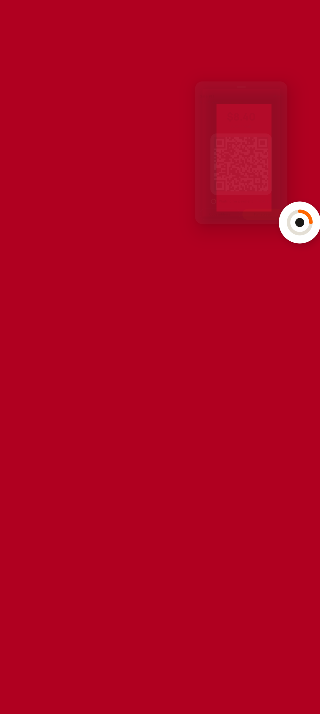
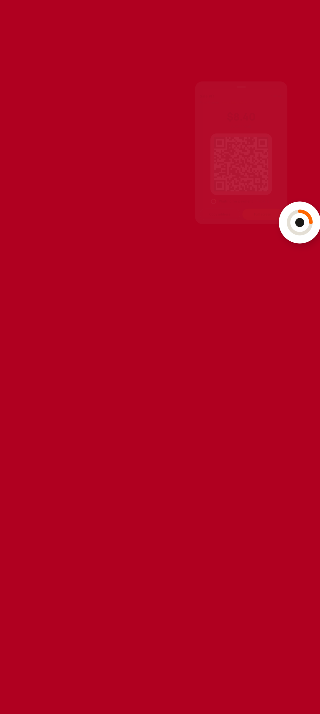
Let the panel's shadow collapse with its card, so a lower leaves no grey box over Square
The grow's per-draw fade never reached the card's elevation shadow, so
the card faded out of a shadow that stayed whole. The card's own layer
now casts its shadow from an elevation and a shadow colour that follow
Panel.shown(raise), the fade's own rule, on the phone's card, the
tablet's card and its order card; the free bubble's circle does the same
with its window's presence. OverlayFramesTest lowers the panel over white
and fails when the band under the card is darker than the card is opaque;
frames/phone-lower-light-q*.png are its frames. Decision 134.

Changed region(s): [[0.625, 0.1232, 0.9062, 0.3389]]

diff --git a/android/app/src/main/kotlin/app/monokular/overlay/Faces.kt b/android/app/src/main/kotlin/app/monokular/overlay/Faces.kt
@@ -63,11 +63,11 @@ import androidx.compose.ui.graphics.Path
 import androidx.compose.ui.graphics.asAndroidPath
 import androidx.compose.ui.graphics.drawscope.clipPath
 import androidx.compose.runtime.State
-import androidx.compose.ui.draw.shadow
 import androidx.compose.ui.geometry.Offset
 import androidx.compose.ui.geometry.Rect
 import androidx.compose.ui.graphics.Color
 import androidx.compose.ui.graphics.CompositingStrategy
+import androidx.compose.ui.graphics.DefaultShadowColor
 import androidx.compose.ui.graphics.TransformOrigin
 import androidx.compose.ui.graphics.graphicsLayer
 import androidx.compose.ui.input.pointer.pointerInput
@@ -190,6 +190,14 @@ object Panel {
     fun collapseVelocity(velocity: Float, height: Float): Float = if (height > 0f) 0f - velocity / height else 0f
 
     /**
+     * How opaque a growing panel is at [raise]: all there by a third of the
+     * way (`docs/motion.md` M1), so it reads as the bubble opening rather
+     * than a card fading. Its shadow takes the same share, so the shadow
+     * never outlives the card (decision 134).
+     */
+    fun shown(raise: Float): Float = (raise * 3f).coerceIn(0f, 1f)
+
+    /**
      * The point a growing panel scales about, as fractions of its [card]
      * (both on screen): [from] itself on a phone, the docked bubble above
      * the card; on a tablet, whose window ends at the card, the card's
@@ -281,6 +289,8 @@ class PanelActions(
  * only while Monokular is away ([PaidBuzz], decision 119). [pulse] is false for the bubble docked above the panel,
  * which has nothing left to call for; [panelUp] is the free bubble's word
  * that a panel is up beside it (a tablet's), which stops its pulse too.
+ * [presence] is the free bubble's window appearing and going, which the
+ * circle's shadow follows (decision 134).
  */
 @Composable
 fun BubbleFace(
@@ -289,10 +299,11 @@ fun BubbleFace(
     phase: SalePhase = SalePhase.Waiting,
     panelUp: Boolean = false,
     confirms: Boolean = true,
+    presence: Presence? = null,
 ) = Box(
     Modifier.padding(if (pulse) BubblePadding else DockedPadding).clearAndSetSemantics {},
     contentAlignment = Alignment.Center,
-) { Circle(look, pulse, phase, panelUp, confirms) }
+) { Circle(look, pulse, phase, panelUp, confirms, presence) }
 
 /** Room round the bubble's circle in its window: the pulse's halo reaches 16 dp out and isn't clipped. */
 val BubblePadding = 16.dp
@@ -303,6 +314,8 @@ private val DockedPadding = 12.dp
 /** The bubble's circle: its window, with [BubblePadding] each side, is [Panel.BUBBLE_WINDOW_DP]. */
 private val BubbleSize = 56.dp
 
+private val BubbleElevation = 6.dp
+
 /**
  * One circle whatever the look (`docs/motion.md` M4): its shadow and place
  * stay; its alpha and ground fade (read in the layer and in its draw, so
@@ -310,7 +323,7 @@ private val BubbleSize = 56.dp
  * and only the middle crossfades: the grey logo, the loading mark, the tick.
  */
 @Composable
-private fun Circle(look: BubbleLook, pulse: Boolean, phase: SalePhase, panelUp: Boolean, confirms: Boolean) {
+private fun Circle(look: BubbleLook, pulse: Boolean, phase: SalePhase, panelUp: Boolean, confirms: Boolean, presence: Presence?) {
     val m = motion
     val alpha by animateFloatAsState(if (look == BubbleLook.Idle) 0.55f else 1f, m.fade.fraction, label = "bubble")
     val ground by animateColorAsState(
@@ -339,7 +352,11 @@ private fun Circle(look: BubbleLook, pulse: Boolean, phase: SalePhase, panelUp: 
             }
             .graphicsLayer {
                 this.alpha = alpha
-                shadowElevation = 6.dp.toPx()
+                // The window's appear and go fade the circle per draw, which its own shadow doesn't see: it follows here.
+                val shown = presence?.value ?: 1f
+                shadowElevation = BubbleElevation.toPx() * shown
+                ambientShadowColor = DefaultShadowColor.copy(alpha = shown)
+                spotShadowColor = ambientShadowColor
                 shape = CircleShape
                 clip = true
             }
@@ -420,9 +437,9 @@ private fun PanelCard(sale: TillSale, where: String, wide: Boolean, sideBySide: 
                     Modifier.offset { IntOffset(0, (drag.value * raise.value).roundToInt()) }
                 },
             )
-            .shadow(16.dp, RoundedCornerShape(32.dp))
-            .clip(RoundedCornerShape(32.dp))
+            .card(raise)
             .background(mk.ground)
+            .testTag(CARD_TAG)
             .semantics { paneTitle = "Monokular payment code" }
             .verticalScroll(rememberScrollState())
             .padding(start = 20.dp, end = 20.dp, bottom = 18.dp),
@@ -593,6 +610,9 @@ const val CODE_TAG = "panel-code"
 
 /** The slot the code folds in, whose height follows the fold. */
 const val CODE_SLOT_TAG = "panel-code-slot"
+
+/** The panel's card, for the tests that look at its shadow. */
+const val CARD_TAG = "panel-card"
 
 /** The status row under the live code. */
 const val STATUS_TAG = "panel-status"
@@ -912,7 +932,7 @@ fun FloatingPanel(sale: TillSale, where: String, page: PanelPage, actions: Panel
                 OrderContent(
                     sale, "Back to the code", actions.onBackToCode, actions.onBackToCode,
                     Modifier.width(360.dp).heightIn(max = 640.dp)
-                        .shadow(16.dp, RoundedCornerShape(32.dp)).clip(RoundedCornerShape(32.dp)).background(mk.ground)
+                        .card(motion.raise).background(mk.ground)
                         .semantics { paneTitle = "The order" },
                 )
             }
@@ -941,7 +961,29 @@ private fun Modifier.grows(motion: PanelMotion, wide: Boolean, order: Boolean = 
         if (card != null && from != null) transformOrigin = Panel.origin(from, card, corner = wide)
         scaleX = 0.3f + 0.7f * raise
         scaleY = scaleX
-        alpha = (raise * 3f).coerceIn(0f, 1f)
+        alpha = Panel.shown(raise)
         // Faded per draw, not through a window-sized offscreen buffer: the fade is a third of the grow.
         compositingStrategy = CompositingStrategy.ModulateAlpha
     }
+
+/** The panel card's shape and the height its shadow is cast from at rest. */
+private val CardShape = RoundedCornerShape(32.dp)
+private val CardElevation = 16.dp
+
+/**
+ * The panel's card: clipped to its corners, its shadow cast from a height
+ * and in a darkness that follow [raise] as the card's fade does
+ * ([Panel.shown]). A parent's alpha drawn per draw (the grow's
+ * `ModulateAlpha`) never reaches a child's shadow, so without this the
+ * shadow stayed whole while the card faded out of it: a grey box left over
+ * Square after the panel was gone (decision 134). Read in the layer, so a
+ * frame recomposes nothing; the colour is a value, so it allocates nothing.
+ */
+private fun Modifier.card(raise: Presence): Modifier = graphicsLayer {
+    val shown = Panel.shown(raise.value)
+    shadowElevation = CardElevation.toPx() * shown
+    ambientShadowColor = DefaultShadowColor.copy(alpha = shown)
+    spotShadowColor = ambientShadowColor
+    shape = CardShape
+    clip = true
+}

diff --git a/android/app/src/androidTest/kotlin/app/monokular/OverlayFramesTest.kt b/android/app/src/androidTest/kotlin/app/monokular/OverlayFramesTest.kt
@@ -17,11 +17,14 @@ import androidx.compose.ui.test.onAllNodesWithTag
 import androidx.compose.ui.test.onNodeWithTag
 import androidx.test.platform.app.InstrumentationRegistry
 import app.monokular.core.SalePhase
+import app.monokular.overlay.CARD_TAG
 import app.monokular.overlay.CODE_TAG
+import app.monokular.overlay.Panel
 import app.monokular.overlay.PanelActions
 import app.monokular.overlay.PanelMotion
 import app.monokular.overlay.PanelPage
 import app.monokular.overlay.PhonePanel
+import app.monokular.ui.Fixed
 import app.monokular.ui.mk
 import org.junit.Rule
 import org.junit.Test
@@ -52,13 +55,14 @@ class OverlayFramesTest {
     /** `motion.surface` settles in about this long (`docs/motion.md` §2): the seek points are its quarters. */
     private val surfaceMs = 450L
 
-    private fun panel(raised: Float) {
+    /** The panel over a backdrop: a strong colour by default, so the card's edges show; [white] for Square's own ground. */
+    private fun panel(raised: Float, white: Boolean = false) {
         compose.mainClock.autoAdvance = false
         motion = PanelMotion(raised, mutableStateOf<Offset?>(Offset(1200f, 900f)))
         compose.setContent {
             Till {
                 motion.raise.Attach()
-                Box(Modifier.fillMaxSize().background(mk.danger).testTag("window")) {
+                Box(Modifier.fillMaxSize().background(if (white) Fixed.White else mk.danger).testTag("window")) {
                     PhonePanel(sale, "Front Counter", BubbleLook.Lit, page, actions, motion)
                 }
             }
@@ -66,9 +70,8 @@ class OverlayFramesTest {
         compose.mainClock.advanceTimeBy(100)
     }
 
-    private fun save(move: String, quarter: Int) {
+    private fun save(move: String, quarter: Int, image: Bitmap = compose.onNodeWithTag("window").captureToImage().asAndroidBitmap()) {
         val dir = File(InstrumentationRegistry.getInstrumentation().targetContext.getExternalFilesDir(null), "frames").apply { mkdirs() }
-        val image = compose.onNodeWithTag("window").captureToImage().asAndroidBitmap()
         val small = Bitmap.createScaledBitmap(image, image.width / 4, image.height / 4, true)
         File(dir, "phone-$move-q$quarter.png").outputStream().use { small.compress(Bitmap.CompressFormat.PNG, 100, it) }
     }
@@ -106,6 +109,45 @@ class OverlayFramesTest {
     fun thePanelsLower() {
         panel(raised = 1f)
         seek("lower") { motion.raise.exit() }
+    }
+
+    /**
+     * How dark the band just under the card is on a white backdrop, 0 to 1:
+     * the card's shadow, which nothing else draws there.
+     */
+    private fun shadowUnderCard(image: Bitmap): Float {
+        val card = compose.onNodeWithTag(CARD_TAG, useUnmergedTree = true).fetchSemanticsNode().boundsInRoot
+        val top = card.bottom.toInt() + 2
+        val bottom = (card.bottom + card.height * 0.04f).toInt().coerceAtMost(image.height - 1)
+        var darkest = 0f
+        for (y in top..bottom) {
+            for (x in (card.left + card.width / 4).toInt()..(card.right - card.width / 4).toInt()) {
+                val p = image.getPixel(x, y)
+                val light = (android.graphics.Color.red(p) + android.graphics.Color.green(p) + android.graphics.Color.blue(p)) / (3f * 255f)
+                darkest = maxOf(darkest, 1f - light)
+            }
+        }
+        return darkest
+    }
+
+    /** Lowered over Square's white, the shadow goes with the card: never darker than the card is opaque (decision 134). */
+    @Test
+    fun theLowersShadowGoesWithTheCard() {
+        panel(raised = 1f, white = true)
+        val atRest = shadowUnderCard(compose.onNodeWithTag("window").captureToImage().asAndroidBitmap())
+        assertTrue(atRest > 0.03f, "the card casts a shadow at rest ($atRest)")
+        motion.raise.exit()
+        var at = 0L
+        for (quarter in 1..3) {
+            val to = surfaceMs * quarter / 4
+            compose.mainClock.advanceTimeBy(to - at)
+            at = to
+            val image = compose.onNodeWithTag("window").captureToImage().asAndroidBitmap()
+            save("lower-light", quarter, image)
+            val shown = Panel.shown(motion.raise.value)
+            val shadow = shadowUnderCard(image)
+            assertTrue(shadow <= atRest * shown + 0.02f, "q$quarter: the shadow is $shadow dark under a card $shown opaque (at rest $atRest)")
+        }
     }
 
     @Test

diff --git a/android/app/src/main/kotlin/app/monokular/overlay/Overlay.kt b/android/app/src/main/kotlin/app/monokular/overlay/Overlay.kt
@@ -308,7 +308,7 @@ class Overlay(
                     },
                 ) { BubbleFace(
                         s.look, phase = s.sale?.phase ?: SalePhase.Waiting, panelUp = open,
-                        confirms = PaidBuzz.bubble(s.appVisible),
+                        confirms = PaidBuzz.bubble(s.appVisible), presence = presence,
                     ) }
             }.apply { importantForAccessibility = View.IMPORTANT_FOR_ACCESSIBILITY_NO_HIDE_DESCENDANTS },
         )

diff --git a/docs/decisions/android.md b/docs/decisions/android.md
@@ -2322,3 +2322,23 @@ design unchanged.
     `PhaseRingOnDeviceTest` reads the arc on every frame of Confirming to
     Paid to Waiting and fails on any colour that isn't the fill or the
     paid colour over the track.
+134. **A card's shadow fades with the card** (dev1, round 3; review: the
+    grey box left by the lower). The panel's grow and collapse fade the
+    card per draw (`CompositingStrategy.ModulateAlpha`, so there is no
+    window-sized offscreen buffer), and a parent's alpha drawn that way
+    never reaches a child's elevation shadow: the renderer draws shadows
+    with the casting node's own alpha only. So the card faded out of a
+    shadow that stayed whole (`frames/phone-lower-q2.png`), a grey square
+    over Square for the last frames of every lower. The card's own layer
+    now casts its shadow from `16 dp × Panel.shown(raise)` in
+    `DefaultShadowColor` at that same alpha, `Panel.shown` being the one
+    rule the grow's fade already used (opaque by a third of the way). An
+    offscreen layer for the fade was the other fix and the one ruled out by
+    decision 125's reasoning: a screen-sized texture per window for a
+    shadow. Every surface with a shadow under a per-draw fade gets the
+    same: the phone's card, the tablet's floating card and its order card,
+    and the free bubble's circle, whose window fades it in and out on
+    appear and go (`BubbleFace(presence)`). `OverlayFramesTest` lowers the
+    panel over white and fails when the band under the card is darker than
+    the card's opacity allows (`frames/phone-lower-light-q*.png`); on the
+    old build it read 0.14 dark under a card 5 % opaque.

diff --git a/docs/reports/motion/frames/README.md b/docs/reports/motion/frames/README.md
@@ -16,6 +16,7 @@ seeked frame. Regenerate with:
 | --- | --- |
 | The panel growing out of the bubble | `phone-raise-q*.png` |
 | The panel collapsing into it | `phone-lower-q*.png` |
+| The same over Square's white, where its shadow must go with it (decision 134) | `phone-lower-light-q1..3.png` |
 | The code folding into the paid tick | `phone-paid-fold-q*.png` |
 | The next sale's code growing out of the tick | `phone-next-sale-q*.png` |
 | The order growing out of the card to the window | `phone-order-grow-q*.png` |
